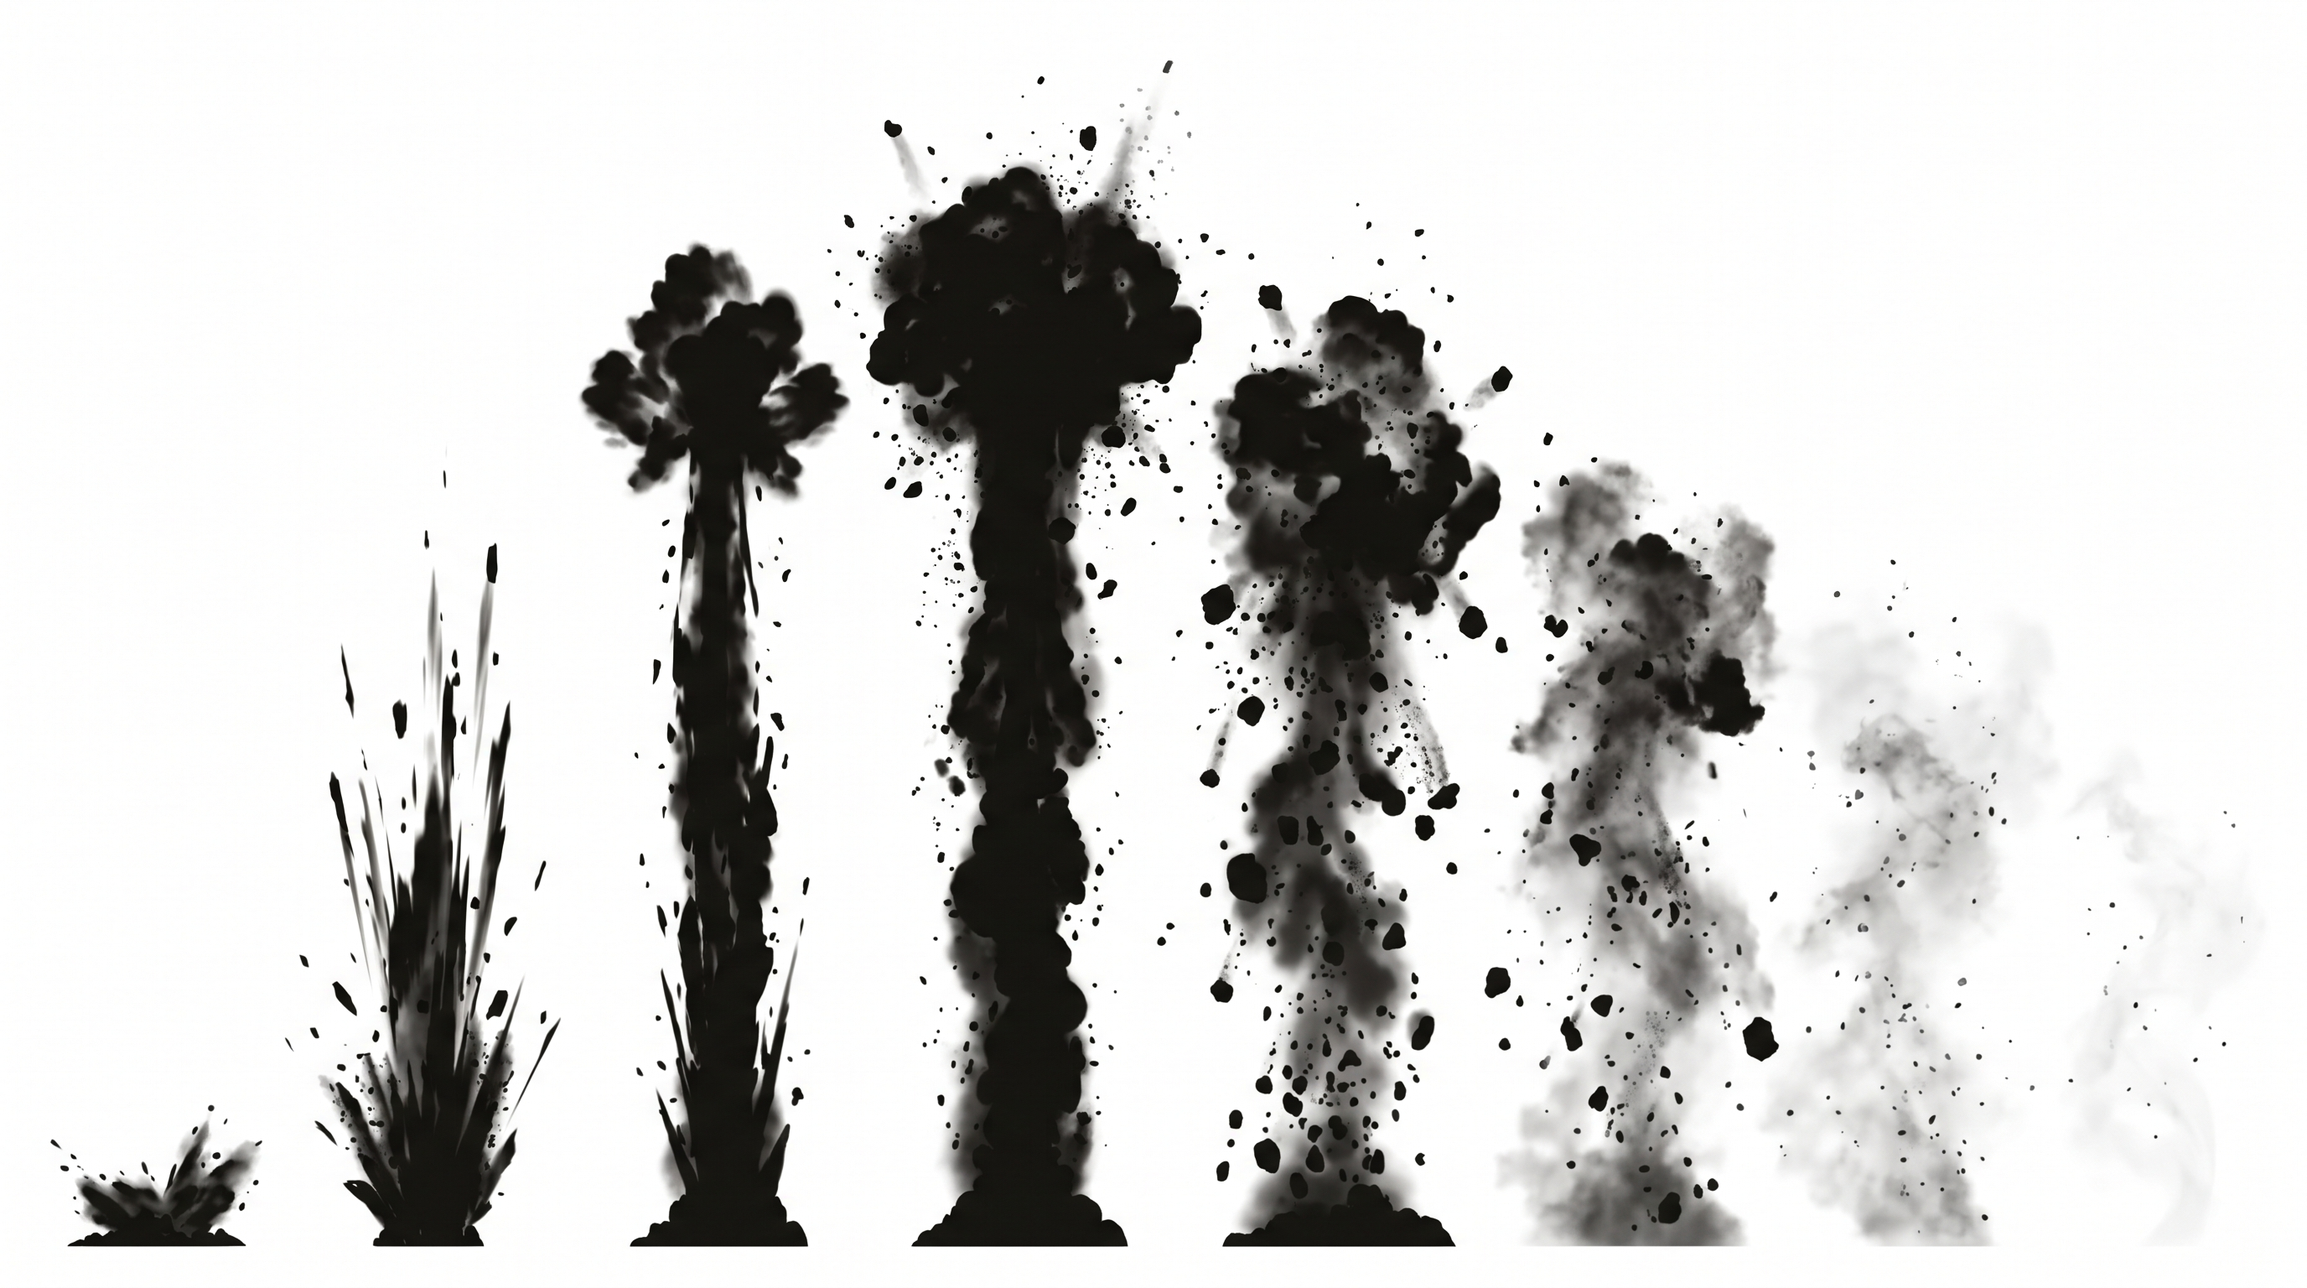
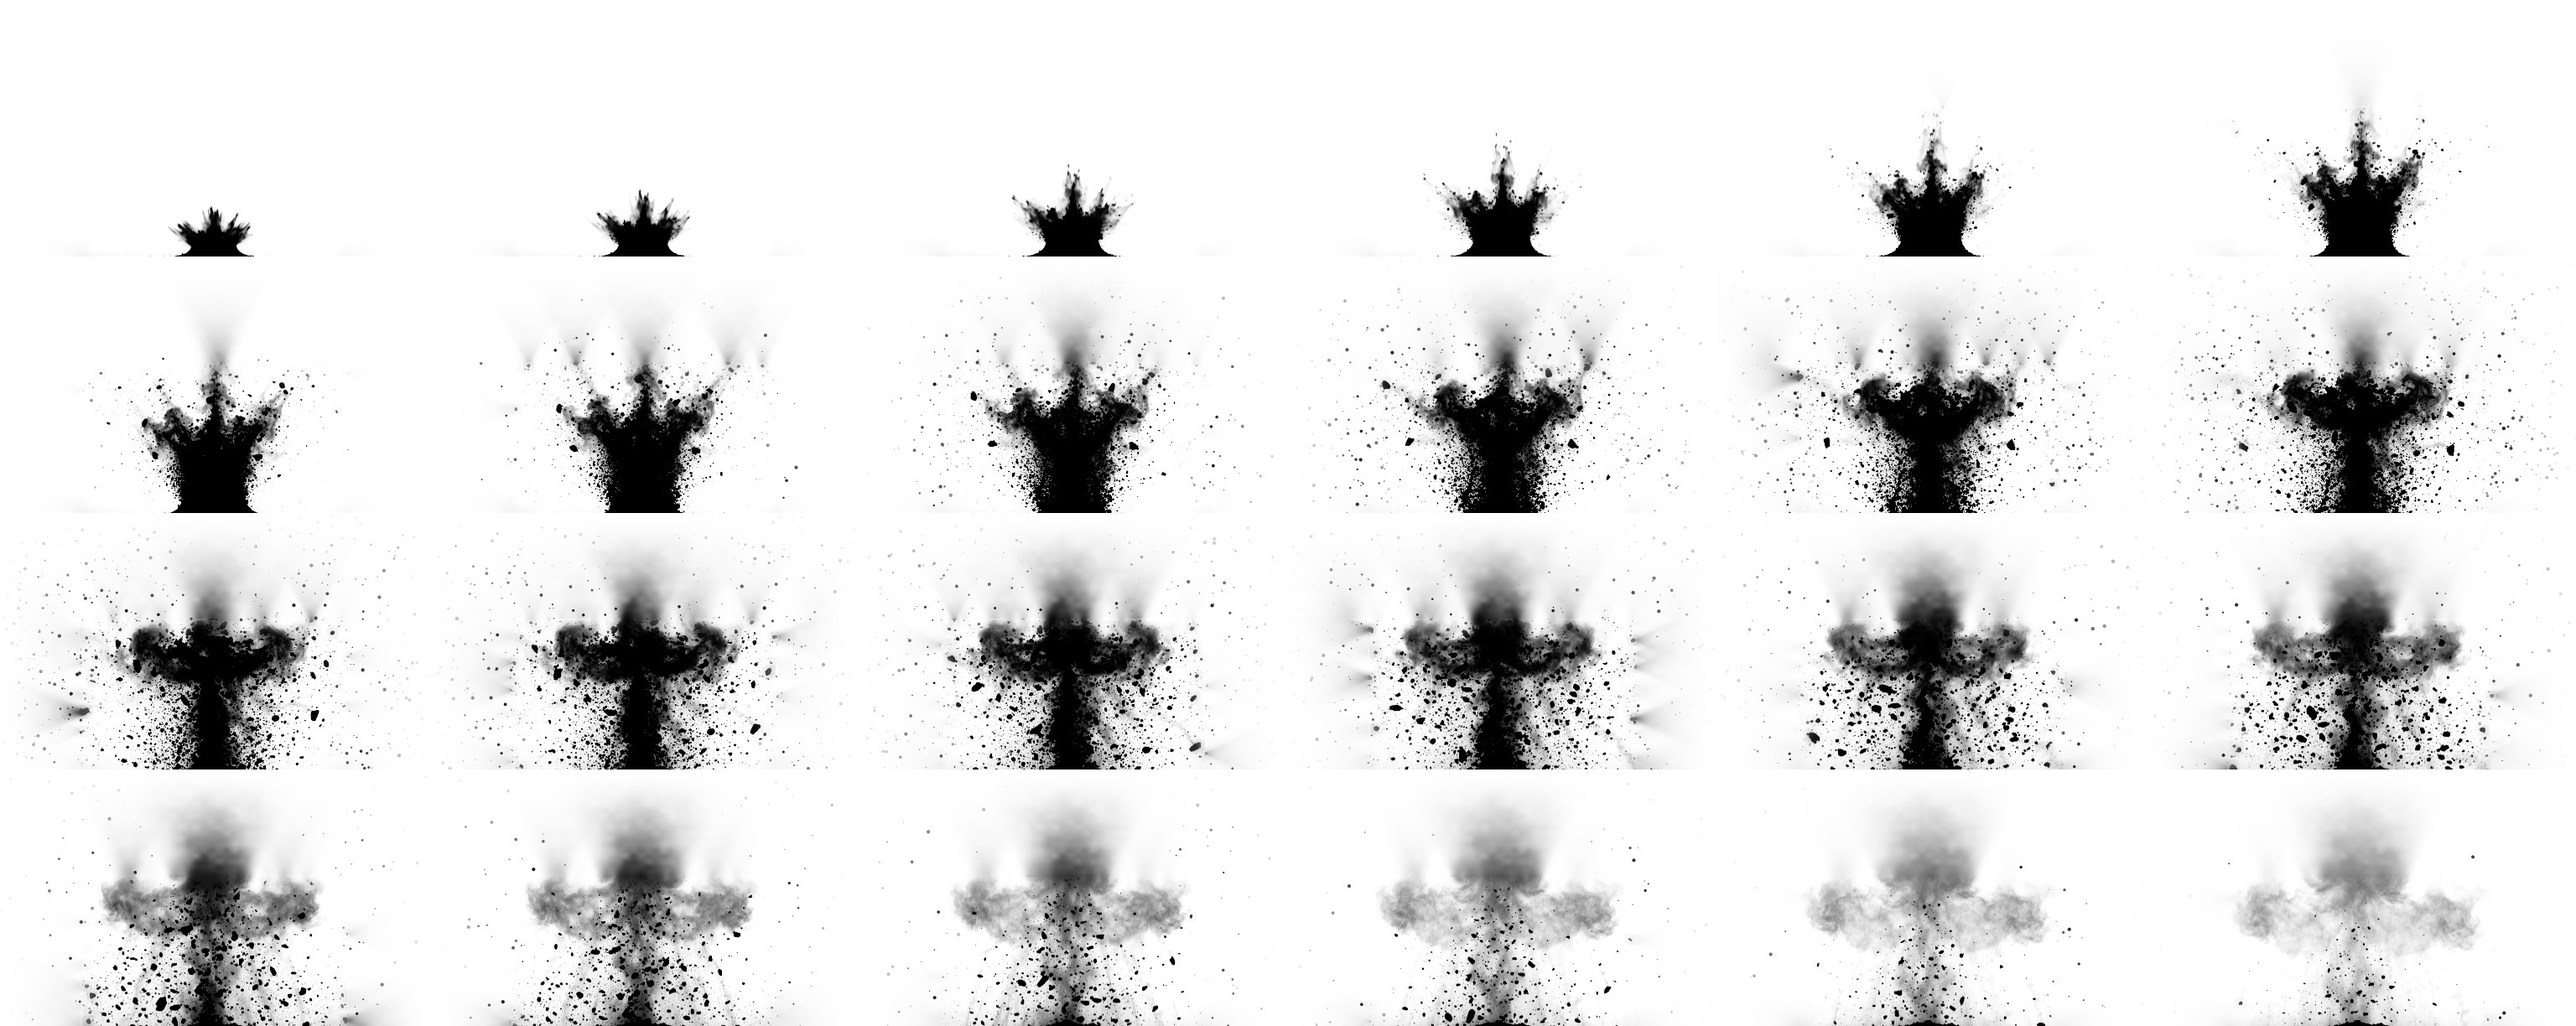
Заставка: вибухи з відео з продовженими краями, біг без присідань, музика з перших нот, звуки без тону з ревербератором

diff --git a/src/menu.js b/src/menu.js
@@ -16,8 +16,9 @@ const MENU_HUMAN = {
 function mr(a, b) { return a + (b - a) * MENU.rnd(); }
 // Аркуші кадрів від Gemini: чорні силуети на білому тлі в один ряд. Кадри знаходяться автоматично
 // (стовпці без темних пікселів — проміжки), біле тло прибирається, сіре стає напівпрозорим.
-const MENU_SHEETS = { run: { src: 'art/menu/run.jpg', col: [0, 0, 0], solo: true }, boom: { src: 'art/menu/boom.jpg', col: [34, 22, 18] } };
+const MENU_SHEETS = { run: { src: 'art/menu/run.jpg', col: [0, 0, 0], solo: true, skip: [1, 5], head: true }, boom: { src: 'art/menu/boom.jpg', col: [34, 22, 18], grid: [6, 4], n: 24, pow: 0.625, vid: 180 / 306 } };
 function menuSheetPrep(sh, img) {
+  if (sh.grid) return menuGridPrep(sh, img);
   const N = 8, W = img.width, H = img.height, c = document.createElement('canvas'); c.width = W; c.height = H;
   const x = c.getContext('2d', { willReadFrequently: true }); x.drawImage(img, 0, 0);
   const d = x.getImageData(0, 0, W, H).data, lum = (i) => Math.min(d[i], d[i + 1], d[i + 2]);
@@ -54,14 +55,39 @@ function menuSheetPrep(sh, img) {
     }
     const fx = f.getContext('2d'), id = fx.createImageData(fw, fh), o = id.data;
     let mx = 0, mw = 0;
+    const rowX = new Float32Array(fh), rowW = new Float32Array(fh);
     for (let py = 0; py < fh; py++) for (let px = 0; px < fw; px++) {
       const l = lum(((top + py) * W + a0 + px) * 4), al = keep && !keep[px + py * fw] ? 0 : Math.max(0, Math.min(1, (235 - l) / 175)), j = (py * fw + px) * 4;
       o[j] = sh.col[0]; o[j + 1] = sh.col[1]; o[j + 2] = sh.col[2]; o[j + 3] = Math.round(al * 255);
-      if (al > 0.5) { mx += px * al; mw += al; }
+      if (al > 0.5) { mx += px * al; mw += al; rowX[py] += px; rowW[py]++; }
     }
     fx.putImageData(id, 0, 0);
     f.ax = mw ? mx / mw : fw / 2; // якір по горизонталі — центр мас силуету
-    sh.frames.push(f);
+    if (sh.head) {
+      // для бігу якір — голова: вона рухається рівно, а ноги й руки гойдають центр мас
+      let t0 = 0; while (t0 < fh && !rowW[t0]) t0++;
+      let hx = 0, hw = 0; for (let py = t0; py < Math.min(fh, t0 + fh * 0.12); py++) { hx += rowX[py]; hw += rowW[py]; }
+      if (hw) f.ax = hx / hw;
+    }
+    if (!(sh.skip && sh.skip.includes(k))) sh.frames.push(f); // кадри-«присідання» з аркуша не беремо
+  }
+  sh.fh = fh;
+}
+// Аркуш-сітка з кадрами відео вибуху (білий фон, краї відео продовжені назовні).
+// Кадри взято з нерівним кроком у часі: частіше на початку, де все рухається швидко (t ∝ i^(1/pow)).
+function menuGridPrep(sh, img) {
+  const [C, R] = sh.grid, fw = Math.floor(img.width / C), fh = Math.floor(img.height / R);
+  const c = document.createElement('canvas'); c.width = img.width; c.height = img.height;
+  const x = c.getContext('2d', { willReadFrequently: true }); x.drawImage(img, 0, 0);
+  sh.frames = [];
+  for (let i = 0; i < sh.n; i++) {
+    const d = x.getImageData((i % C) * fw, Math.floor(i / C) * fh, fw, fh), o = d.data;
+    for (let p = 0; p < o.length; p += 4) {
+      const l = Math.min(o[p], o[p + 1], o[p + 2]), al = Math.max(0, Math.min(1, (250 - l) / 230));
+      o[p] = sh.col[0]; o[p + 1] = sh.col[1]; o[p + 2] = sh.col[2]; o[p + 3] = Math.round(al * 255);
+    }
+    const f = document.createElement('canvas'); f.width = fw; f.height = fh; f.getContext('2d').putImageData(d, 0, 0);
+    f.ax = fw / 2; sh.frames.push(f);
   }
   sh.fh = fh;
 }
@@ -260,7 +286,7 @@ function menuUpdateDrones(L, dt) {
 // ---- вибух: спалах, стовп землі вгору, бурий пил, темний дим, вирва ----
 function menuBoom(L, wx, y, z, air) {
   const S = L.S * (z === MENU_Z.near ? 1.15 : z === MENU_Z.far ? 0.62 : z), sc = MENU.scroll, X = wx - sc * z;
-  MENU.booms.push({ wx, y, z, t: 0, max: MENU_SHEETS.boom.frames && !air ? 2.6 : 0.45, air, flip: MENU.rnd() < 0.5 });
+  MENU.booms.push({ wx, y, z, t: 0, max: MENU_SHEETS.boom.frames && !air ? 2.9 : 0.45, air, flip: MENU.rnd() < 0.5 });
   const near = z === MENU_Z.near, far = z === MENU_Z.far;
   MENU.shake = Math.min(1, MENU.shake + (far ? 0.15 : near ? 0.9 : 0.55));
   MENU.flash = Math.max(MENU.flash, far ? 0.3 : near ? 0.9 : 0.7); MENU.flashX = X; MENU.flashY = y;
@@ -340,8 +366,8 @@ function menuDrawLayer(ctx, L, z, withHuman) {
 function menuDrawBoom(ctx, b, X, S) {
   const BS = MENU_SHEETS.boom;
   if (BS.frames && !b.air) {
-    const n = BS.frames.length, u = b.t / b.max, ph = Math.min(n - 1.001, Math.pow(u, 0.75) * (n - 1)), i0 = Math.floor(ph), q = ph - i0;
-    const hh = 125 * S, k2 = hh / BS.fh, a0 = ctx.globalAlpha;
+    const n = BS.frames.length, u = b.t / b.max, ph = Math.min(n - 1.001, Math.pow(u, BS.pow || 0.75) * (n - 1)), i0 = Math.floor(ph), q = ph - i0;
+    const hh = 125 * S / (BS.vid || 1), k2 = hh / BS.fh, a0 = ctx.globalAlpha * Math.min(1, (1 - u) * 6); // висота відео ≈ 125 px, продовжені краї — понад це
     ctx.save();
     ctx.translate(X, b.y + 4 * S); if (b.flip) ctx.scale(-1, 1);
     for (const [fr, al] of [[BS.frames[i0], 1 - q], [BS.frames[i0 + 1], q]]) {
@@ -488,29 +514,62 @@ function menuDrawDrone(ctx, x, y, ang, S) {
   ctx.restore();
 }
 // ===== Звуки заставки: глухі, ніби теж сповільнені (лише низькі частоти) =====
+// Лише шум без генераторів тону: удар — це короткий сплеск відфільтрованого шуму, а не нота.
+// Фільтри з Q < 0.7, щоб не було резонансу (інакше теж чути «ноту»). Хвіст — згортковий ревербератор.
+const MENU_SFX = { ctx: null };
+function menuSfxBus() {
+  const ctx = Sfx.ctx; if (!ctx || !Sfx.master) return null;
+  if (MENU_SFX.ctx === ctx) return MENU_SFX;
+  const sr = ctx.sampleRate;
+  // довгий шум (4 с), щоб повтор буфера не давав періодичності
+  const nz = ctx.createBuffer(1, sr * 4, sr), nd = nz.getChannelData(0);
+  for (let i = 0; i < nd.length; i++) nd[i] = Math.random() * 2 - 1;
+  // імпульсна характеристика: стерео-шум, що згасає ~3 с і темнішає з часом (повітря гасить верхи)
+  const len = Math.floor(sr * 3.2), ir = ctx.createBuffer(2, len, sr);
+  for (let ch = 0; ch < 2; ch++) {
+    const d = ir.getChannelData(ch); let lp = 0;
+    for (let i = 0; i < len; i++) {
+      const tt = i / sr, k = 0.35 - 0.3 * Math.min(1, tt / 2.5); // коефіцієнт згладжування: менше — темніше
+      lp += (Math.random() * 2 - 1 - lp) * k;
+      d[i] = lp * Math.exp(-tt * 2.1) * (tt < 0.012 ? tt / 0.012 : 1);
+    }
+  }
+  const conv = ctx.createConvolver(); conv.buffer = ir;
+  const wet = ctx.createGain(); wet.gain.value = 0.9;
+  const hp = ctx.createBiquadFilter(); hp.type = 'highpass'; hp.frequency.value = 45; hp.Q.value = 0.5; // без гулу в хвості
+  conv.connect(hp); hp.connect(wet); wet.connect(Sfx.master);
+  Object.assign(MENU_SFX, { ctx, nz, rev: conv });
+  return MENU_SFX;
+}
+// один шумовий шар: фільтр (від f0 до f1 за fT с), атака at, згасання до dec с; send — частка в ревербератор
+function menuNoiseHit(B, t, { f0, f1, fT, at, dec, vol, rate = 1, send = 0.4, order = 2 }) {
+  const ctx = B.ctx, src = ctx.createBufferSource(); src.buffer = B.nz; src.loop = true; src.playbackRate.value = rate;
+  let node = src;
+  for (let i = 0; i < order; i++) {
+    const f = ctx.createBiquadFilter(); f.type = 'lowpass'; f.Q.value = 0.5;
+    f.frequency.setValueAtTime(f0, t); f.frequency.exponentialRampToValueAtTime(f1, t + fT);
+    node.connect(f); node = f;
+  }
+  const g = ctx.createGain(); g.gain.setValueAtTime(0.0001, t); g.gain.exponentialRampToValueAtTime(vol, t + at); g.gain.exponentialRampToValueAtTime(0.0005, t + dec);
+  node.connect(g); g.connect(Sfx.master);
+  if (send > 0) { const sg = ctx.createGain(); sg.gain.value = send; g.connect(sg); sg.connect(B.rev); }
+  src.start(t, Math.random() * 3); src.stop(t + dec + 0.05);
+}
 function menuSfxBoom(vol) {
-  const ctx = Sfx.ctx; if (!ctx || !Sfx.noise) return;
-  const t = ctx.currentTime;
-  // гуркіт: шум крізь низькочастотний фільтр, повільно затухає
-  const src = ctx.createBufferSource(); src.buffer = Sfx.noise; src.playbackRate.value = 0.45; src.loop = true;
-  const f = ctx.createBiquadFilter(); f.type = 'lowpass'; f.frequency.setValueAtTime(260, t); f.frequency.exponentialRampToValueAtTime(90, t + 2.2); f.Q.value = 0.6;
-  const g = ctx.createGain(); g.gain.setValueAtTime(0.0001, t); g.gain.exponentialRampToValueAtTime(0.9 * vol, t + 0.05); g.gain.exponentialRampToValueAtTime(0.001, t + 3);
-  src.connect(f); f.connect(g); g.connect(Sfx.master); src.start(t, Math.random() * 0.5); src.stop(t + 3.1);
-  // удар: низький тон, що сповзає вниз
-  const o = ctx.createOscillator(); o.type = 'sine'; o.frequency.setValueAtTime(64, t); o.frequency.exponentialRampToValueAtTime(24, t + 1.4);
-  const og = ctx.createGain(); og.gain.setValueAtTime(0.0001, t); og.gain.exponentialRampToValueAtTime(0.75 * vol, t + 0.04); og.gain.exponentialRampToValueAtTime(0.001, t + 1.8);
-  o.connect(og); og.connect(Sfx.master); o.start(t); o.stop(t + 1.9);
+  const B = menuSfxBus(); if (!B) return;
+  const t = B.ctx.currentTime;
+  // удар: короткий глухий сплеск
+  menuNoiseHit(B, t, { f0: 700, f1: 160, fT: 0.12, at: 0.006, dec: 0.35, vol: 0.9 * vol, send: 0.6 });
+  // суб: тиск у грудях, шум нижче 90 Гц (без висоти тону)
+  menuNoiseHit(B, t, { f0: 110, f1: 55, fT: 0.5, at: 0.015, dec: 0.9, vol: 1.3 * vol, send: 0.15, order: 3 });
+  // гуркіт ґрунту, що осідає
+  menuNoiseHit(B, t + 0.03, { f0: 300, f1: 80, fT: 2.4, at: 0.12, dec: 3, vol: 0.45 * vol, rate: 0.6, send: 0.5 });
 }
 function menuSfxShot() {
-  const ctx = Sfx.ctx; if (!ctx || !Sfx.noise) return;
-  const t = ctx.currentTime;
-  const src = ctx.createBufferSource(); src.buffer = Sfx.noise; src.playbackRate.value = 0.5;
-  const f = ctx.createBiquadFilter(); f.type = 'lowpass'; f.frequency.setValueAtTime(420, t); f.frequency.exponentialRampToValueAtTime(140, t + 0.4);
-  const g = ctx.createGain(); g.gain.setValueAtTime(0.0001, t); g.gain.exponentialRampToValueAtTime(0.35, t + 0.01); g.gain.exponentialRampToValueAtTime(0.001, t + 0.5);
-  src.connect(f); f.connect(g); g.connect(Sfx.master); src.start(t, Math.random() * 0.5); src.stop(t + 0.55);
-  const o = ctx.createOscillator(); o.type = 'sine'; o.frequency.setValueAtTime(95, t); o.frequency.exponentialRampToValueAtTime(42, t + 0.3);
-  const og = ctx.createGain(); og.gain.setValueAtTime(0.0001, t); og.gain.exponentialRampToValueAtTime(0.3, t + 0.01); og.gain.exponentialRampToValueAtTime(0.001, t + 0.4);
-  o.connect(og); og.connect(Sfx.master); o.start(t); o.stop(t + 0.45);
+  const B = menuSfxBus(); if (!B) return;
+  const t = B.ctx.currentTime;
+  menuNoiseHit(B, t, { f0: 900, f1: 180, fT: 0.08, at: 0.003, dec: 0.22, vol: 0.32, send: 0.8 });
+  menuNoiseHit(B, t, { f0: 140, f1: 70, fT: 0.15, at: 0.006, dec: 0.3, vol: 0.35, send: 0.2, order: 3 });
 }
 // ===== Музика меню =====
 const menuMusic = {
@@ -519,9 +578,24 @@ const menuMusic = {
   credit: 'В. А. Моцарт — Реквієм, Lacrimosa · Г. фон Караян, Віденська філармонія, 1960 · Wikimedia Commons, суспільне надбання',
 };
 function loadMenuPref() { try { return localStorage.getItem('fpv.music') !== '0'; } catch (e) { return true; } }
+// У записі спершу секунда стороннього звуку й 2 с тиші — перші ноти вступають на 3,23 с;
+// фінальне «Amen» відзвучує до ~209 с. Граємо й зациклюємо лише саму музику.
+const MUSIC_START = 3.2, MUSIC_END = 209;
+function menuMusicEl() {
+  if (!menuMusic.el) {
+    const el = menuMusic.el = new Audio(menuMusic.src);
+    el.loop = false; el.volume = 0; el.preload = 'auto';
+    const back = () => { el.currentTime = MUSIC_START; };
+    el.addEventListener('loadedmetadata', () => { if (el.currentTime < MUSIC_START) back(); });
+    el.addEventListener('timeupdate', () => { if (el.currentTime >= MUSIC_END) back(); });
+    el.addEventListener('ended', () => { back(); el.play().catch(() => {}); });
+  }
+  return menuMusic.el;
+}
 function menuMusicPlay() {
-  if (!menuMusic.el) { menuMusic.el = new Audio(menuMusic.src); menuMusic.el.loop = true; menuMusic.el.volume = 0; menuMusic.el.preload = 'auto'; }
-  const p = menuMusic.el.play(); if (p && p.catch) p.catch(() => { /* браузер чекає на клік */ });
+  const el = menuMusicEl();
+  if (el.readyState >= 1 && el.currentTime < MUSIC_START) el.currentTime = MUSIC_START;
+  const p = el.play(); if (p && p.catch) p.catch(() => { /* браузер чекає на клік */ });
 }
 // щокадру: у меню грає (плавно наростає), у грі — плавно затихає й ставиться на паузу
 function menuMusicTick(dt) {
@@ -546,6 +620,7 @@ function menuIntroStart() {
   const intro = document.getElementById('intro');
   if (!intro) return;
   menuIntro.active = true;
+  menuMusicEl(); // трек вантажиться, поки людина дивиться на чорний екран
   lobbyEl.classList.add('pre');
   intro.classList.add('on');
   const go = () => {
@@ -553,8 +628,9 @@ function menuIntroStart() {
     menuIntro.started = true;
     intro.querySelector('.intro-hint').textContent = '';
     menuMusic.unlocked = true;
+    const el = menuMusicEl();
+    el.volume = 0.6; // без наростання: Lacrimosa починається тихо, і перші ноти мають бути чутні
     menuMusicPlay();
-    const el = menuMusic.el;
     let done = false;
     const reveal = () => {
       if (done) return; done = true;
